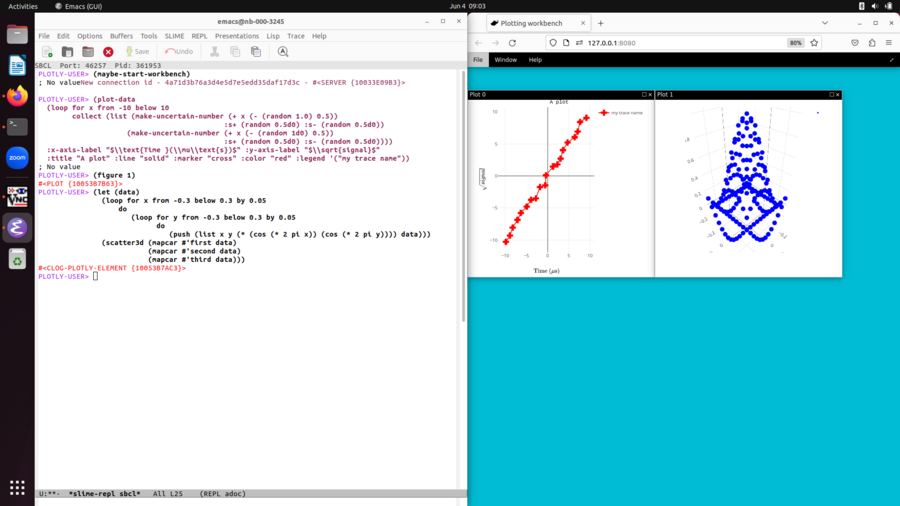
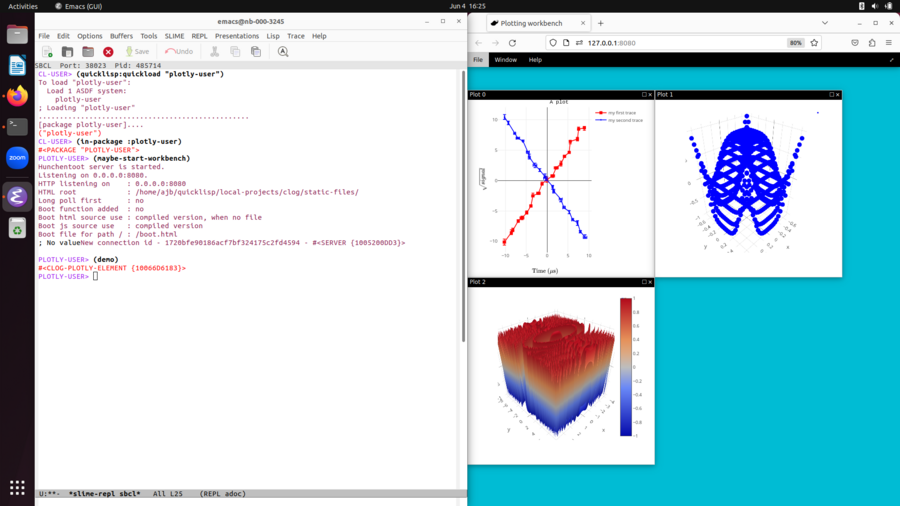
Add surface plots and update demo

diff --git a/README.md b/README.md
@@ -20,25 +20,7 @@ git clone https://github.com/rabbibotton/clog.git
 CL-USER> (quicklisp:quickload "PLOTLY-USER")
 CL-USER> (in-package "PLOTLY-USER")
 PLOTLY-USER> (maybe-start-workbench)
-PLOTLY-USER>
- (plot-data
-  (loop for x from -10 below 10
-        collect (list (make-uncertain-number (+ x (- (random 1.0) 0.5))
-					    :s+ (random 0.5d0) :s- (random 0.5d0))
-		     (make-uncertain-number (+ x (- (random 1d0) 0.5))
-					    :s+ (random 0.5d0) :s- (random 0.5d0))))
-  :x-axis-label "$\\text{Time }(\\mu\\text{s})$" :y-axis-label "$\\sqrt{signal}$"
-  :title "A plot" :line "solid" :marker "cross" :color "red" :legend '("my trace name"))
-PLOTLY-USER> (figure 1)
-PLOTLY-USER> (let (data)
-	       (loop for x from -0.3 below 0.3 by 0.05
-		   do
-		      (loop for y from -0.3 below 0.3 by 0.05
-			    do
-			       (push (list x y (* (cos (* 2 pi x)) (cos (* 2 pi y)))) data)))
-	       (scatter3d (mapcar #'first data)
-			  (mapcar #'second data)
-			  (mapcar #'third data)))
+PLOTLY-USER> (demo)
 ```
 
 This should result in:
